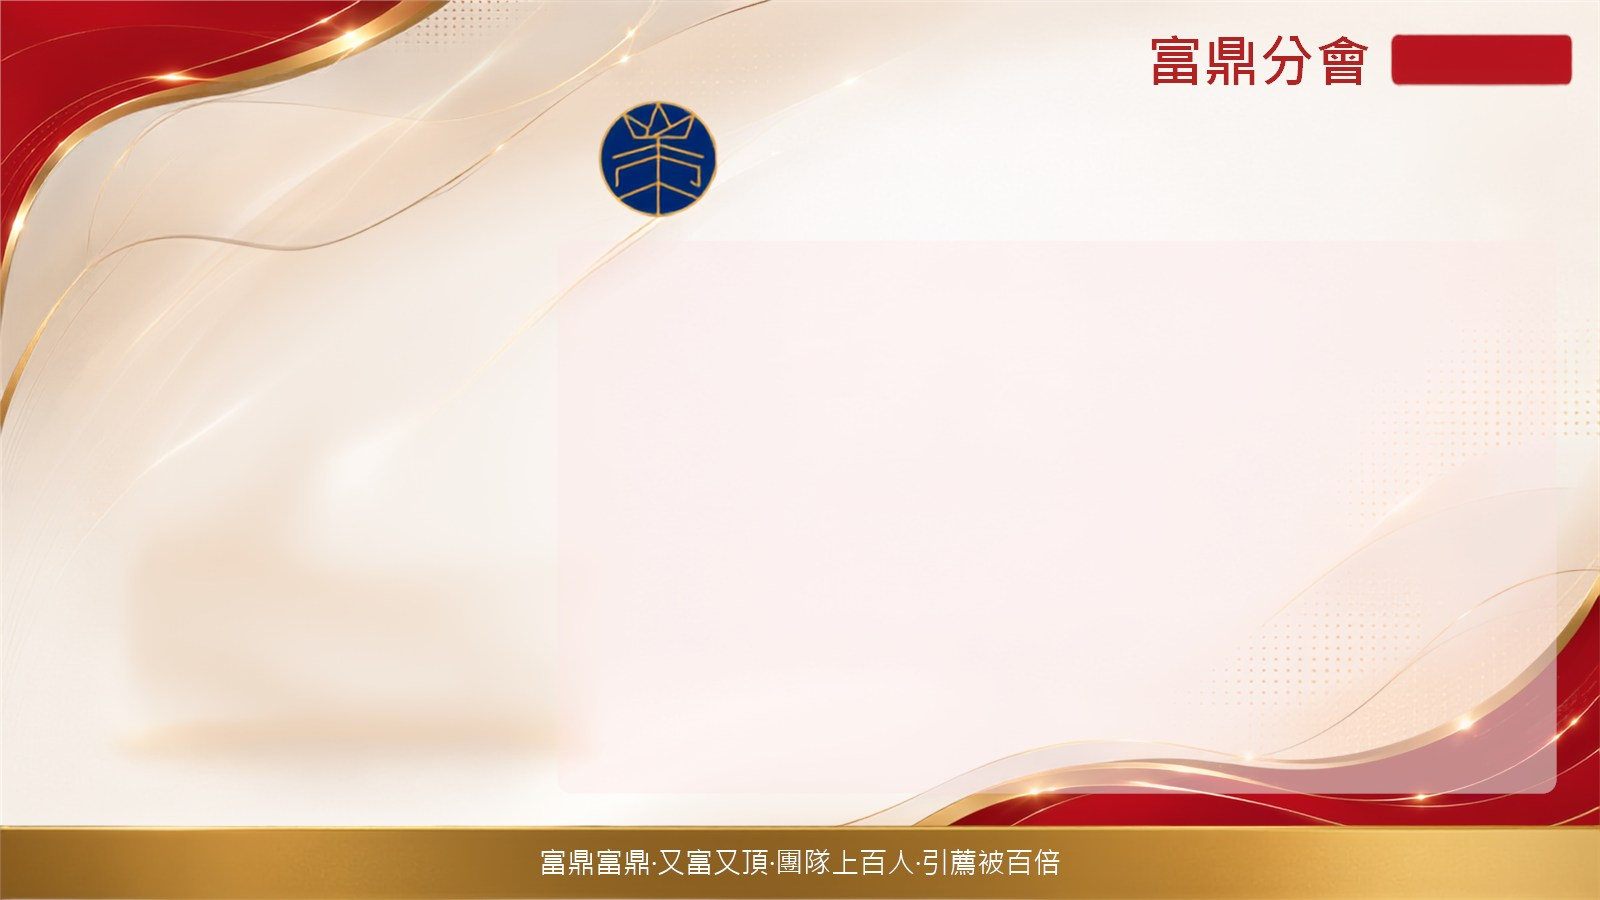
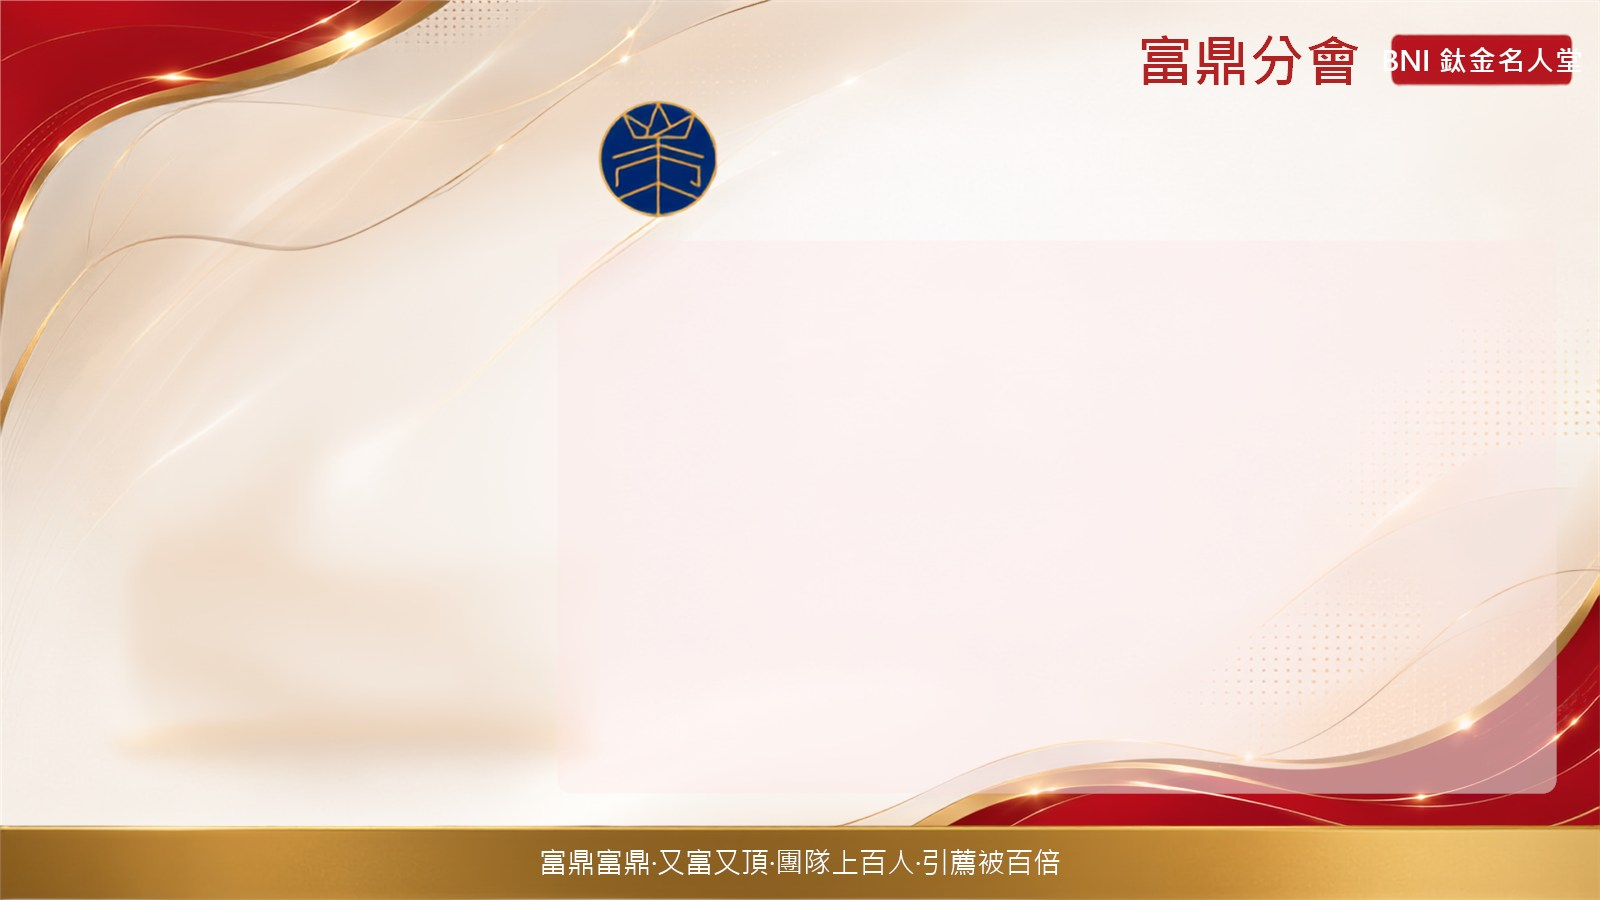
形象頁母片乾淨版：確認無 baked 例會範例、補上 BNI 鈦金名人堂 badge 文字
上一版重新合成的母片已無 baked 人物/姓名/spec pill/合作對象文字，
但漏了 BNI 鈦金名人堂 badge 上的文字，本版補齊。

會員切換到不同人時（例 陳鳳伶／郭泓志）不會再看到景國強的例會殘影。

Changed region(s): [[0.6875, 0.0311, 1.0, 0.0933]]

diff --git a/index.html b/index.html
@@ -997,14 +997,14 @@
 <!-- Firebase 雲端同步 -->
 <script src="https://www.gstatic.com/firebasejs/10.12.2/firebase-app-compat.js"></script>
 <script src="https://www.gstatic.com/firebasejs/10.12.2/firebase-firestore-compat.js"></script>
-<script src="firebase-config.js?v=47"></script>
-<script src="specialties.js?v=47"></script>
-<script src="members.js?v=47"></script>
-<script src="store.js?v=47"></script>
-<script src="divider-bg.js?v=47"></script>
-<script src="edm-masters.js?v=47"></script>
-<script src="hero-bg.js?v=47"></script>
-<script src="app.js?v=47"></script>
-<script src="roster.js?v=47"></script>
+<script src="firebase-config.js?v=48"></script>
+<script src="specialties.js?v=48"></script>
+<script src="members.js?v=48"></script>
+<script src="store.js?v=48"></script>
+<script src="divider-bg.js?v=48"></script>
+<script src="edm-masters.js?v=48"></script>
+<script src="hero-bg.js?v=48"></script>
+<script src="app.js?v=48"></script>
+<script src="roster.js?v=48"></script>
 </body>
 </html>